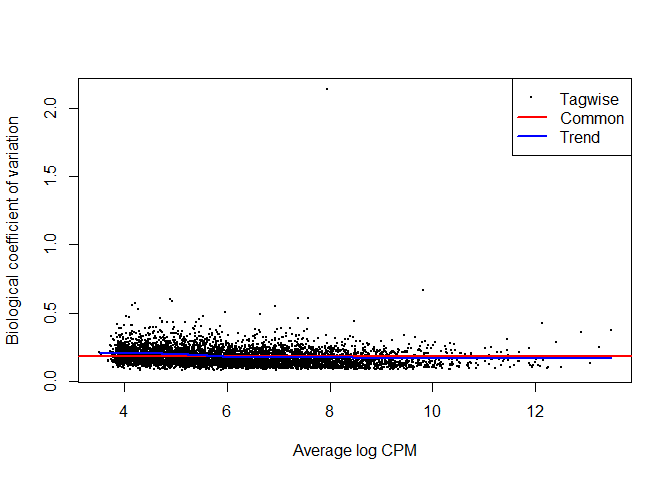
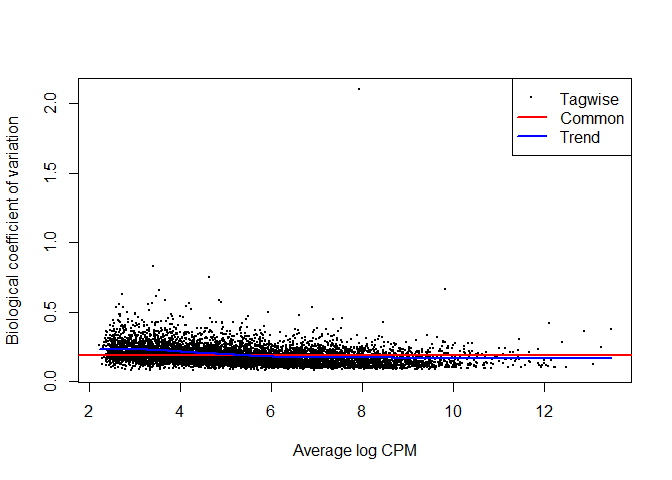
Fix threshold on filter by cpm

diff --git a/RNASeq/seminar7_rnaseq.md b/RNASeq/seminar7_rnaseq.md
@@ -160,7 +160,7 @@ plotMDS(dge.obj.cpm,  col=c(rep("black",10), rep("red",11)) )
 
 ``` r
 # Filtering 
-threshold <- log2(5*2.7)
+threshold <- log2(5)
 keep <- rowSums(dge.obj.cpm > threshold) # filter for log cpm > 3.3
 keep <- keep >=10  # filter for gene expressed in at least 10 samples for one condition
 dge.obj.filtered <- dge.obj[keep, , keep.lib.sizes=FALSE] # keep.lib.sizes recalculates the library size. 
@@ -168,12 +168,12 @@ head(dge.obj.filtered$samples)
 ```
 
     ##           group lib.size norm.factors
-    ## SRX033480     1  2978971            1
-    ## SRX033488     1  6177462            1
-    ## SRX033481     1  2661232            1
-    ## SRX033489     1  6411180            1
-    ## SRX033482     1  2955195            1
-    ## SRX033490     1  6949190            1
+    ## SRX033480     1  3021004            1
+    ## SRX033488     1  6263291            1
+    ## SRX033481     1  2699425            1
+    ## SRX033489     1  6503145            1
+    ## SRX033482     1  2996943            1
+    ## SRX033490     1  7049580            1
 
 We can see that the lib.size are smaller compare to those in `dge.obj` after we dropped out some genes.
 
@@ -187,9 +187,9 @@ dim(dge.obj); dim(dge.obj.filtered);
 
     ## [1] 36536    21
 
-    ## [1] 5598   21
+    ## [1] 7262   21
 
-We have 5598 genes left.
+We have 7262 genes left.
 
 ### Normalization
 
@@ -203,12 +203,12 @@ head(dge.obj.filtered.norm$sample)
 ```
 
     ##           group lib.size norm.factors
-    ## SRX033480     1  2978971    0.9875932
-    ## SRX033488     1  6177462    0.9939317
-    ## SRX033481     1  2661232    0.9909975
-    ## SRX033489     1  6411180    1.0067678
-    ## SRX033482     1  2955195    0.9828178
-    ## SRX033490     1  6949190    0.9901124
+    ## SRX033480     1  3021004    0.9870231
+    ## SRX033488     1  6263291    0.9848896
+    ## SRX033481     1  2699425    0.9899273
+    ## SRX033489     1  6503145    1.0091171
+    ## SRX033482     1  2996943    0.9744694
+    ## SRX033490     1  7049580    0.9901168
 
 Now the norm factors are no longer 1 like in `dge.obj.filtered`. norm.factors &lt; 1 tell us that there are a small number of genes that make up a substantial proportion of counts. In this case, the library size will be scaled down so to scale the counts of the other genes upward.
 
@@ -276,12 +276,12 @@ head(DEGenes$table)
 ```
 
     ##                        logFC   logCPM       LR       PValue          FDR
-    ## ENSMUSG00000015484 -1.998512 4.340754 369.8932 1.974437e-82 1.105290e-78
-    ## ENSMUSG00000030532  1.520040 5.597944 328.2738 2.284383e-73 6.393989e-70
-    ## ENSMUSG00000024248 -3.180704 3.500834 305.0016 2.679972e-68 5.000827e-65
-    ## ENSMUSG00000023236  1.400762 7.092576 282.3746 2.281013e-63 3.192278e-60
-    ## ENSMUSG00000072572 -2.036295 3.739185 216.7730 4.573907e-49 5.120946e-46
-    ## ENSMUSG00000028393  1.775881 6.135877 206.3210 8.720740e-47 8.136451e-44
+    ## ENSMUSG00000020912 -5.214229 3.162833 412.5167 1.038245e-91 7.539732e-88
+    ## ENSMUSG00000015484 -1.994976 4.319520 350.9598 2.619011e-78 9.509629e-75
+    ## ENSMUSG00000050141 -5.387814 2.323630 324.8811 1.252295e-72 3.031389e-69
+    ## ENSMUSG00000030532  1.522248 5.577071 312.2159 7.186321e-70 1.304677e-66
+    ## ENSMUSG00000035775 -4.568919 2.678574 310.2938 1.884627e-69 2.737232e-66
+    ## ENSMUSG00000024248 -3.177268 3.479274 290.8811 3.195802e-65 3.867986e-62
 
 ``` r
 lattice::histogram(DEGenes$table$PValue) 
@@ -299,7 +299,7 @@ The p values for the first few are crazy small. Let's see how many have p value 
 sum(DEGenes$table$PValue <= 0.001 )
 ```
 
-    ## [1] 419
+    ## [1] 556
 
 ### Gene ontology and pathway analysis
 
@@ -466,7 +466,7 @@ deseq2.genes.names <- rownames(top_deseq2)
 length(edgeR.genes.names); length(deseq2.genes.names); 
 ```
 
-    ## [1] 419
+    ## [1] 556
 
     ## [1] 833
 
@@ -474,7 +474,7 @@ length(edgeR.genes.names); length(deseq2.genes.names);
 length(intersect(edgeR.genes.names, deseq2.genes.names))
 ```
 
-    ## [1] 414
+    ## [1] 548
 
 We get more genes by doing DESEq2. There are many overlapping genes.
 
